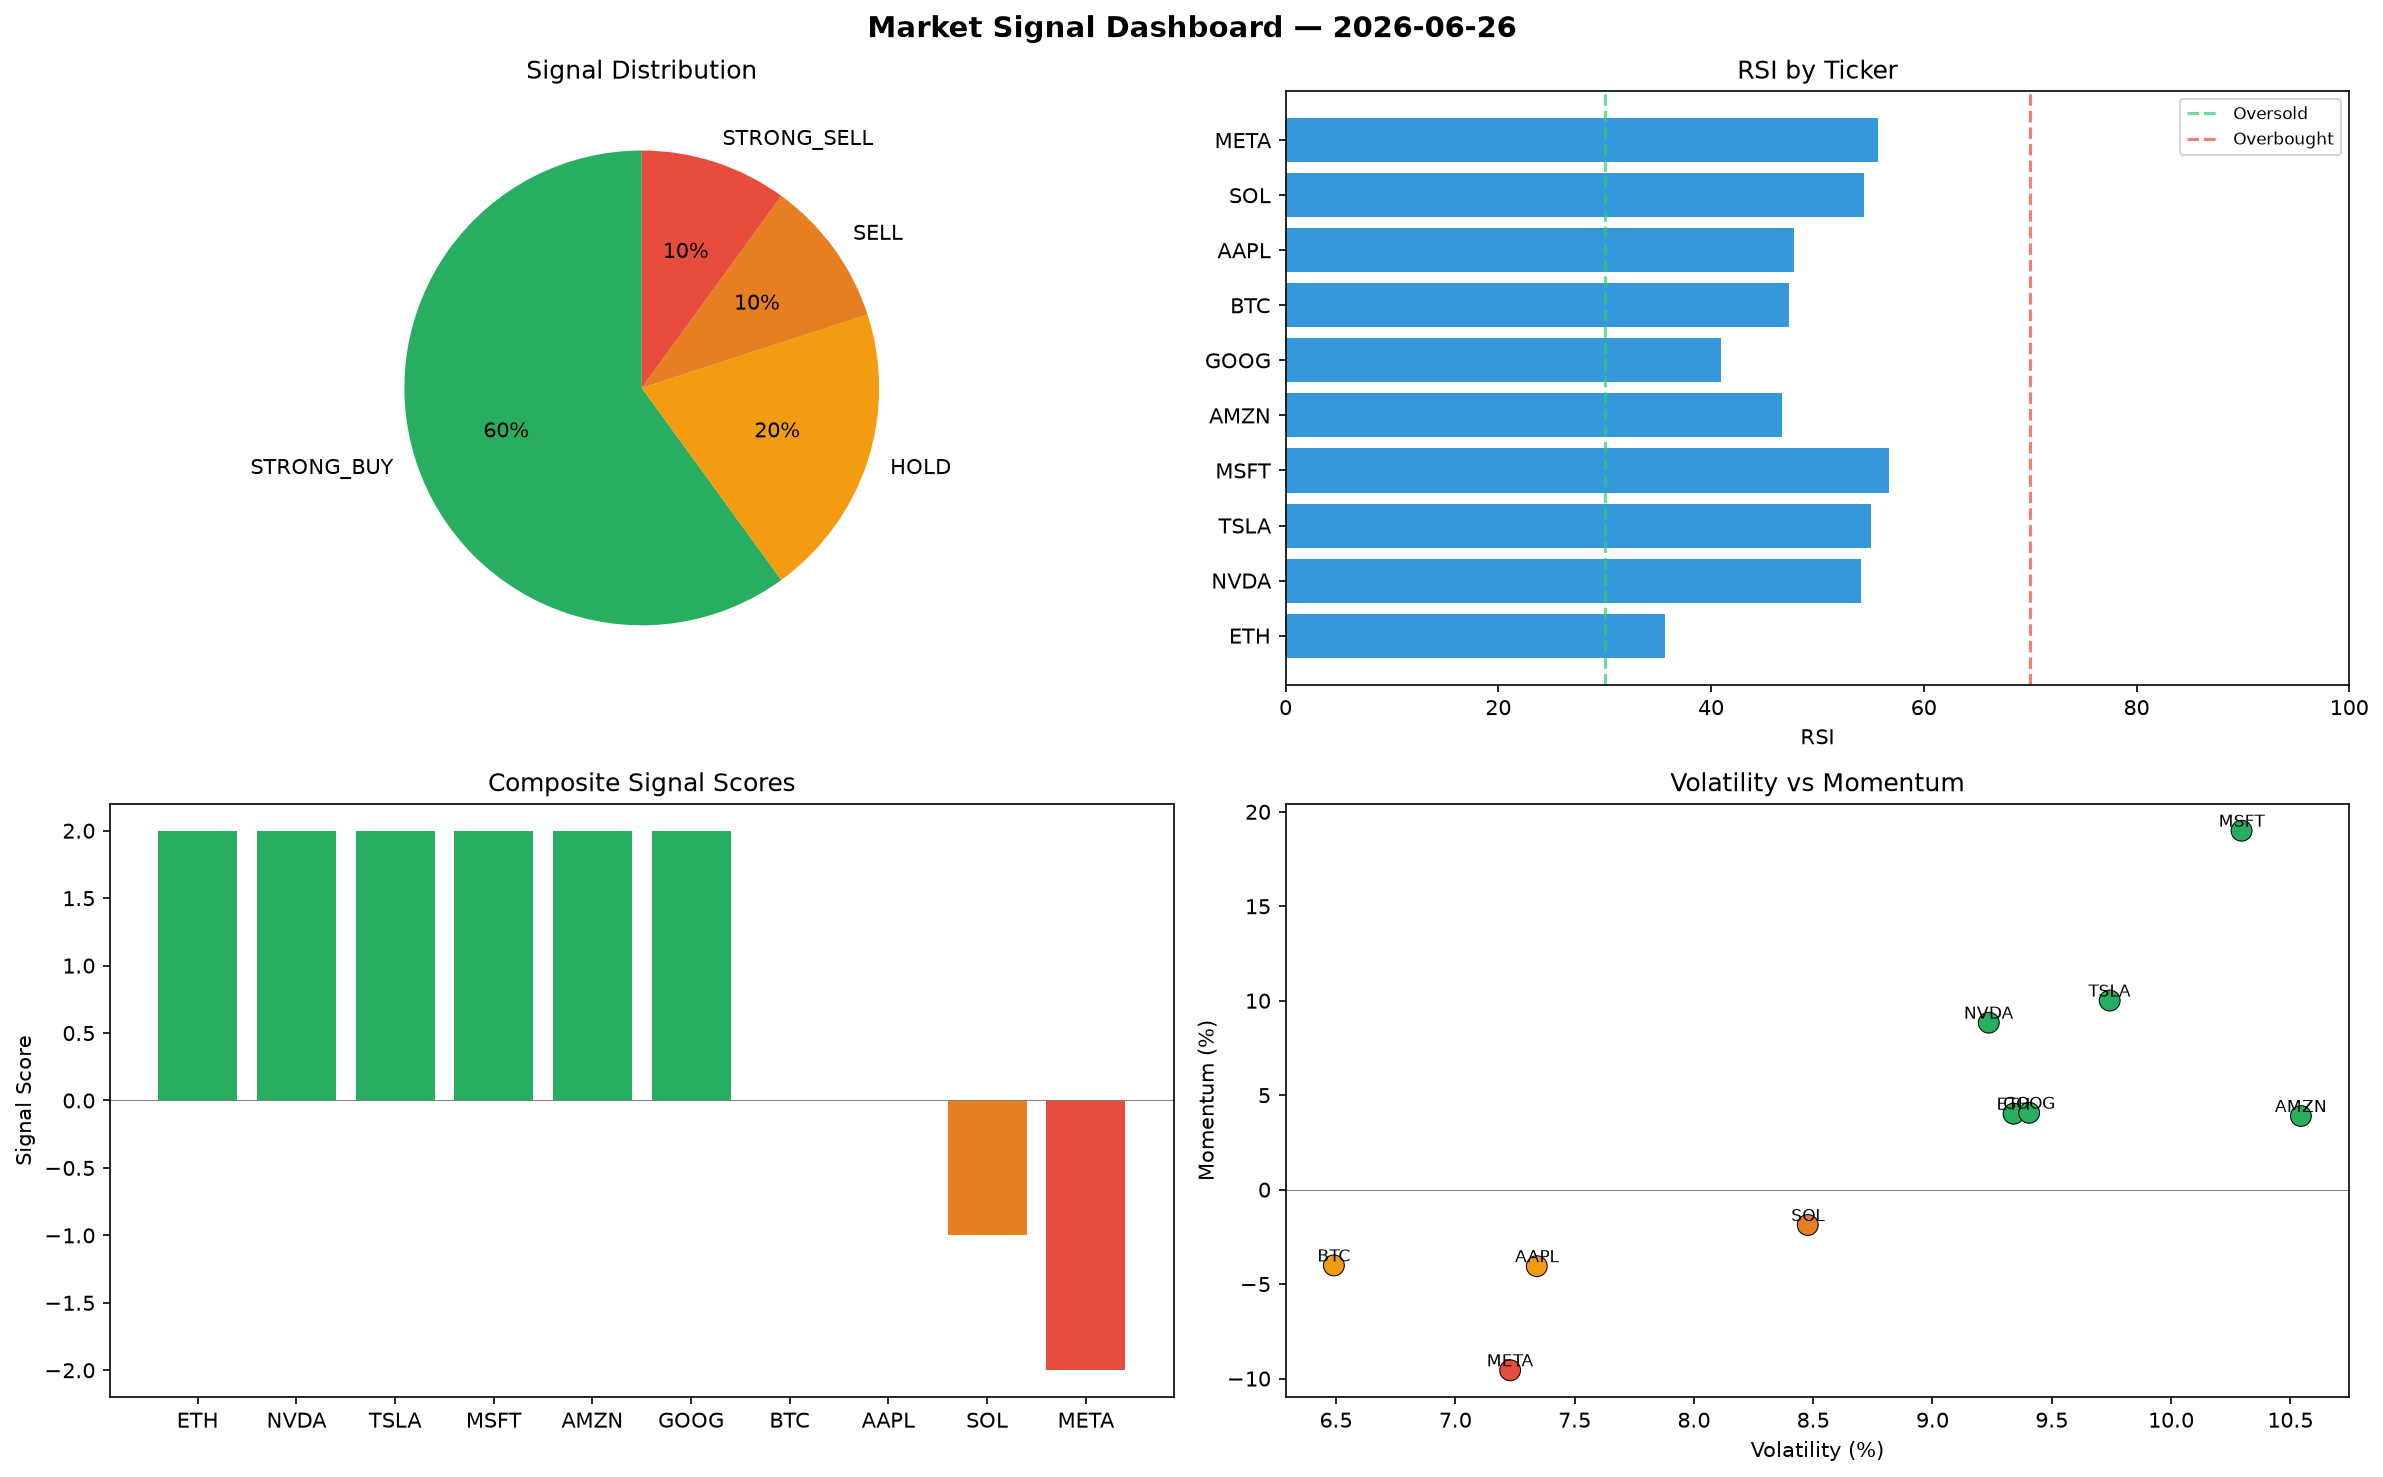
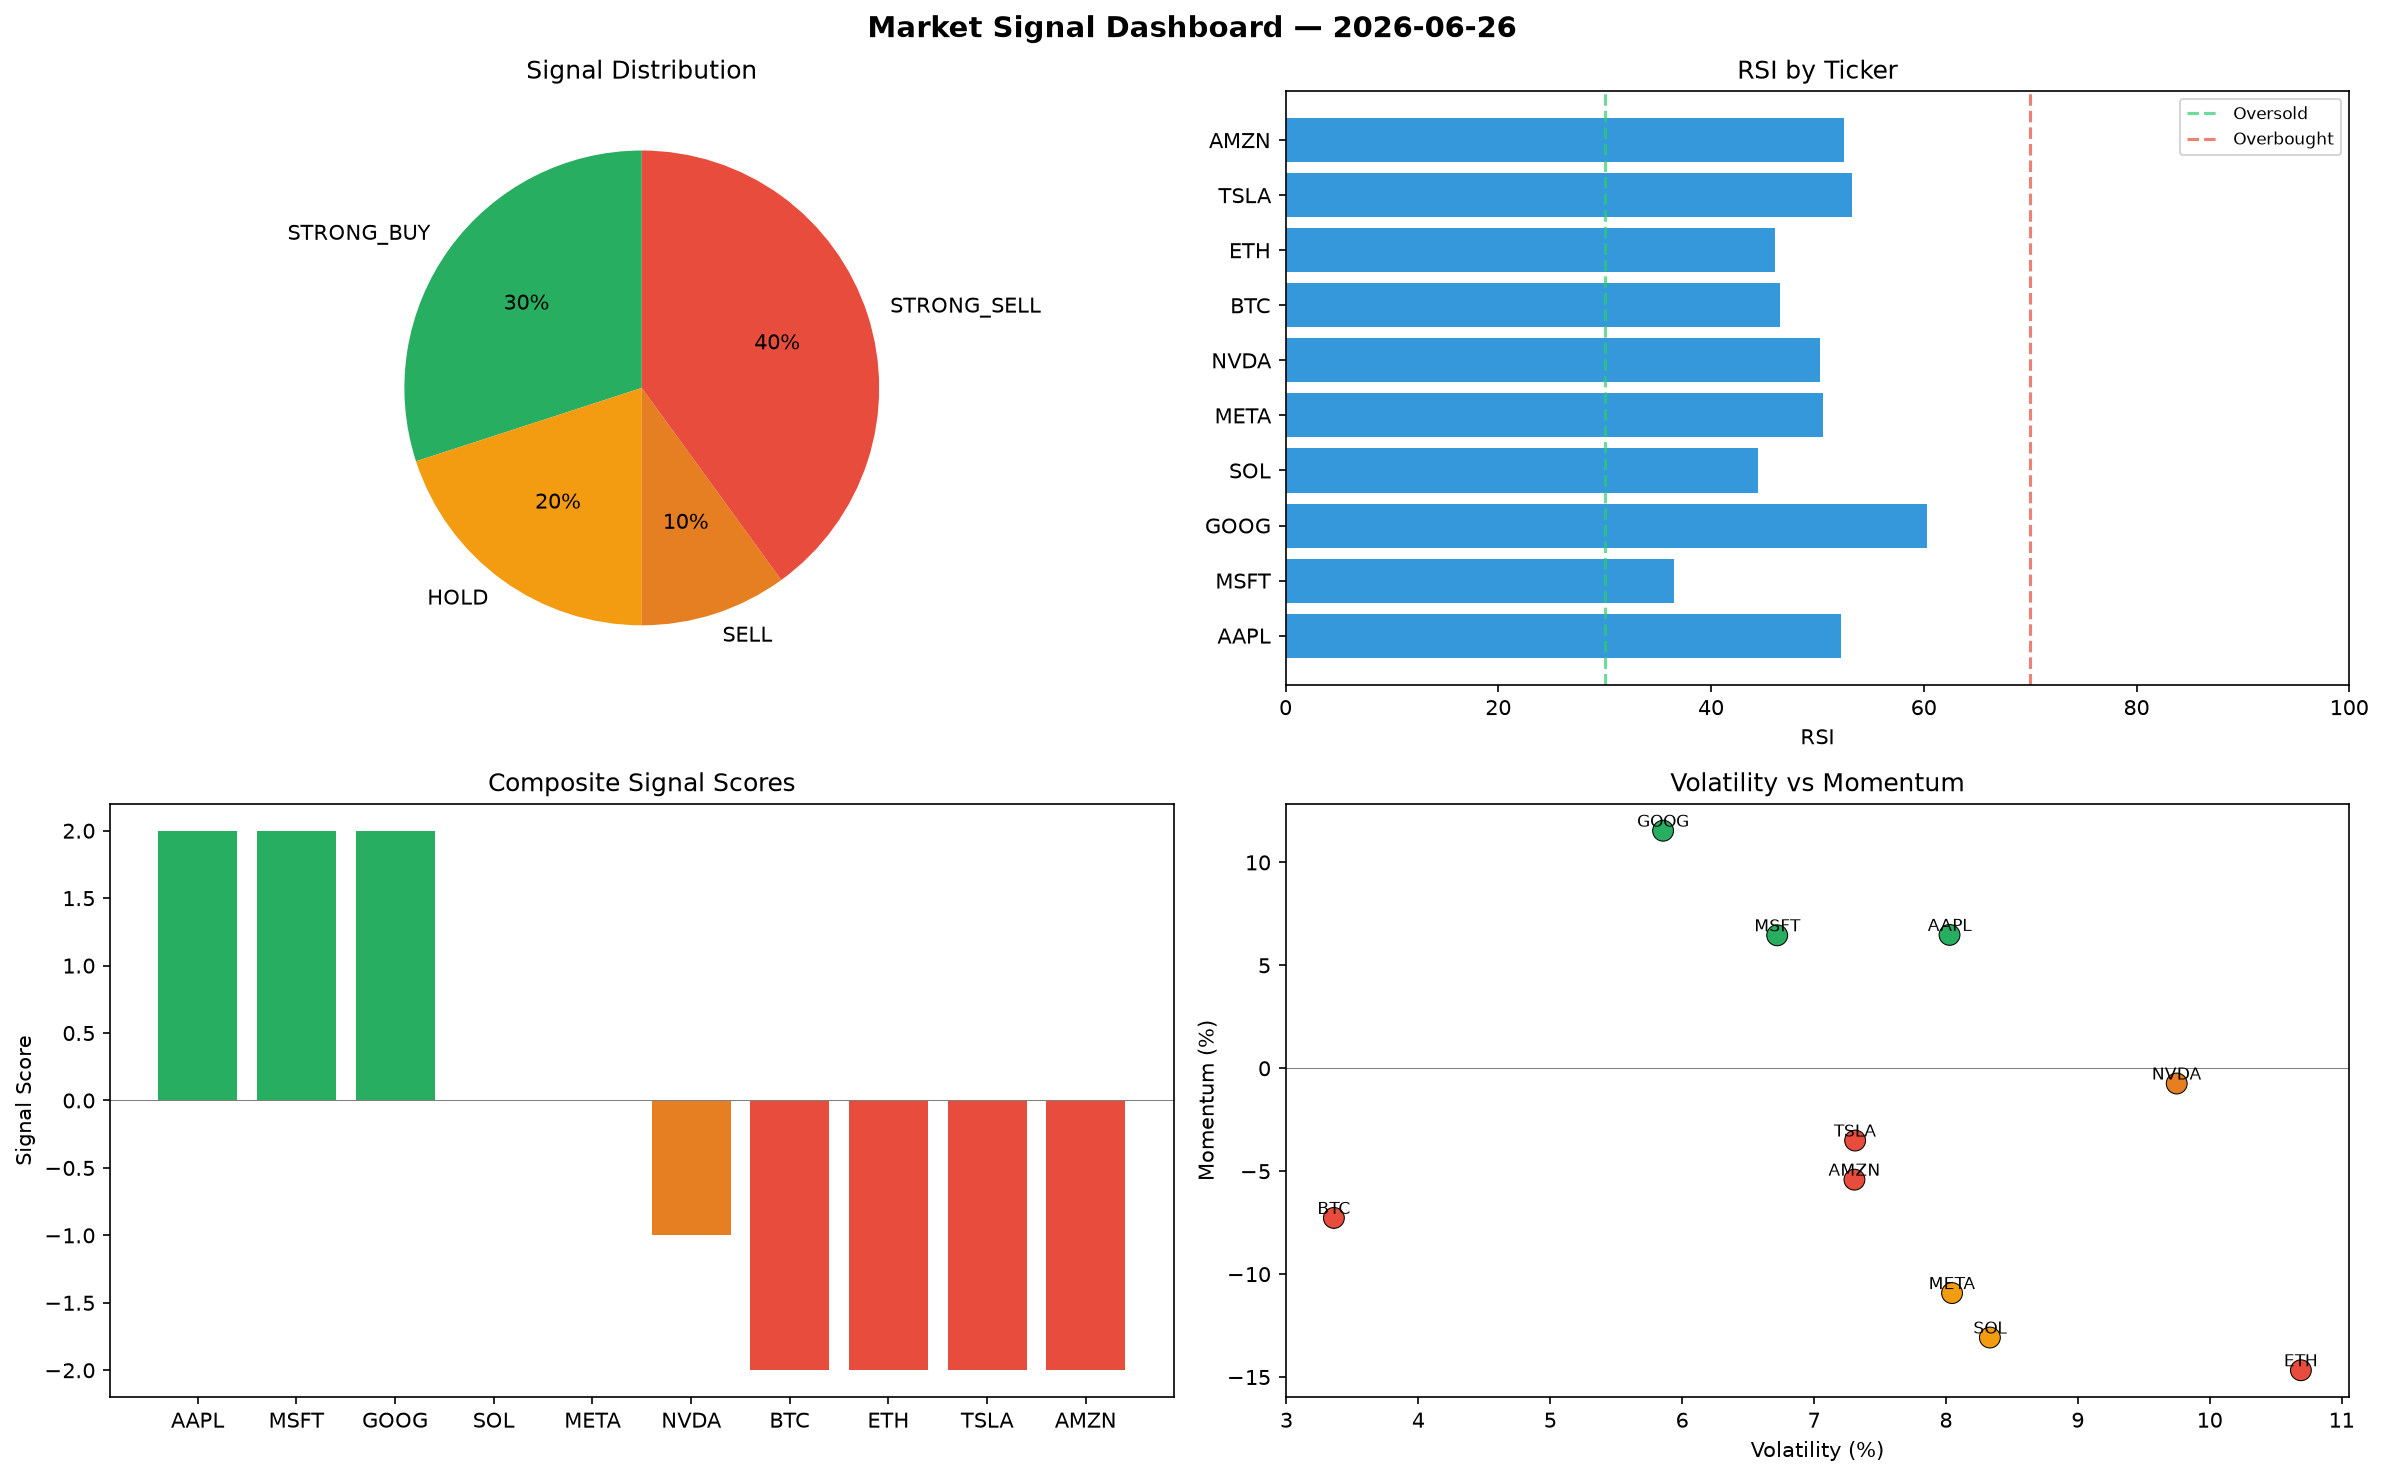
automated-bots: market signals 2026-06-26T11:20

diff --git a/logs/2026-06-26.md b/logs/2026-06-26.md
@@ -1,6 +1,6 @@
 # Market Signal Report — 2026-06-26
 
-**Run ID:** `87a2b82fc7` | **Buy:** 6 | **Sell:** 2 | **Hold:** 2
+**Run ID:** `d05c641d60` | **Buy:** 3 | **Sell:** 5 | **Hold:** 2
 
 ![Dashboard](2026-06-26_dashboard.png)
 
@@ -8,28 +8,28 @@
 
 | Ticker | Price | Signal | Score | RSI | Momentum | Confidence |
 |--------|-------|--------|-------|-----|----------|------------|
-| ETH | $4174.14 | **STRONG_BUY** | 2 | 35.71 | 0.0402 | 0.5 |
-| NVDA | $673.85 | **STRONG_BUY** | 2 | 54.11 | 0.0884 | 0.5 |
-| TSLA | $3961.15 | **STRONG_BUY** | 2 | 55.03 | 0.1001 | 0.5 |
-| MSFT | $4103.54 | **STRONG_BUY** | 2 | 56.72 | 0.19 | 0.5 |
-| AMZN | $2219.98 | **STRONG_BUY** | 2 | 46.64 | 0.039 | 0.5 |
-| GOOG | $1162.31 | **STRONG_BUY** | 2 | 40.94 | 0.0407 | 0.5 |
-| BTC | $2289.05 | **HOLD** | 0 | 47.33 | -0.0401 | 0.0 |
-| AAPL | $2380.49 | **HOLD** | 0 | 47.8 | -0.0405 | 0.0 |
-| SOL | $2694.02 | **SELL** | -1 | 54.37 | -0.0187 | 0.25 |
-| META | $3207.91 | **STRONG_SELL** | -2 | 55.73 | -0.0956 | 0.5 |
+| AAPL | $3327.31 | **STRONG_BUY** | 2 | 52.19 | 0.0648 | 0.5 |
+| MSFT | $1792.42 | **STRONG_BUY** | 2 | 36.55 | 0.0646 | 0.5 |
+| GOOG | $2933.72 | **STRONG_BUY** | 2 | 60.35 | 0.1154 | 0.5 |
+| SOL | $1363.57 | **HOLD** | 0 | 44.38 | -0.1308 | 0.0 |
+| META | $2563.16 | **HOLD** | 0 | 50.52 | -0.1092 | 0.0 |
+| NVDA | $3628.36 | **SELL** | -1 | 50.2 | -0.0074 | 0.25 |
+| BTC | $1165.13 | **STRONG_SELL** | -2 | 46.52 | -0.0727 | 0.5 |
+| ETH | $2291.8 | **STRONG_SELL** | -2 | 46.04 | -0.1467 | 0.5 |
+| TSLA | $1472.45 | **STRONG_SELL** | -2 | 53.26 | -0.0351 | 0.5 |
+| AMZN | $2296.39 | **STRONG_SELL** | -2 | 52.46 | -0.0541 | 0.5 |
 
 ## Delta vs Yesterday
 
 | Ticker | Today | Yesterday | Price Change | Signal Changed |
 |--------|-------|-----------|-------------|----------------|
-| ETH | STRONG_BUY | STRONG_SELL | 📈 224.51% | ⚠ YES |
-| NVDA | STRONG_BUY | STRONG_SELL | 📉 -68.23% | ⚠ YES |
-| TSLA | STRONG_BUY | STRONG_BUY | 📈 249.22% | — |
-| MSFT | STRONG_BUY | BUY | 📉 -7.15% | ⚠ YES |
-| AMZN | STRONG_BUY | STRONG_BUY | 📈 440.34% | — |
-| GOOG | STRONG_BUY | HOLD | 📉 -5.47% | ⚠ YES |
-| BTC | HOLD | HOLD | 📈 42.91% | — |
-| AAPL | HOLD | STRONG_SELL | 📉 -32.19% | ⚠ YES |
-| SOL | SELL | STRONG_SELL | 📉 -27.95% | ⚠ YES |
-| META | STRONG_SELL | HOLD | 📉 -10.32% | ⚠ YES |
+| AAPL | STRONG_BUY | STRONG_SELL | 📉 -5.22% | ⚠ YES |
+| MSFT | STRONG_BUY | BUY | 📉 -59.44% | ⚠ YES |
+| GOOG | STRONG_BUY | HOLD | 📈 138.59% | ⚠ YES |
+| SOL | HOLD | STRONG_SELL | 📉 -63.53% | ⚠ YES |
+| META | HOLD | HOLD | 📉 -28.35% | — |
+| NVDA | SELL | STRONG_SELL | 📈 71.09% | ⚠ YES |
+| BTC | STRONG_SELL | HOLD | 📉 -27.26% | ⚠ YES |
+| ETH | STRONG_SELL | STRONG_SELL | 📈 78.17% | — |
+| TSLA | STRONG_SELL | STRONG_BUY | 📈 29.81% | ⚠ YES |
+| AMZN | STRONG_SELL | STRONG_BUY | 📈 458.94% | ⚠ YES |
